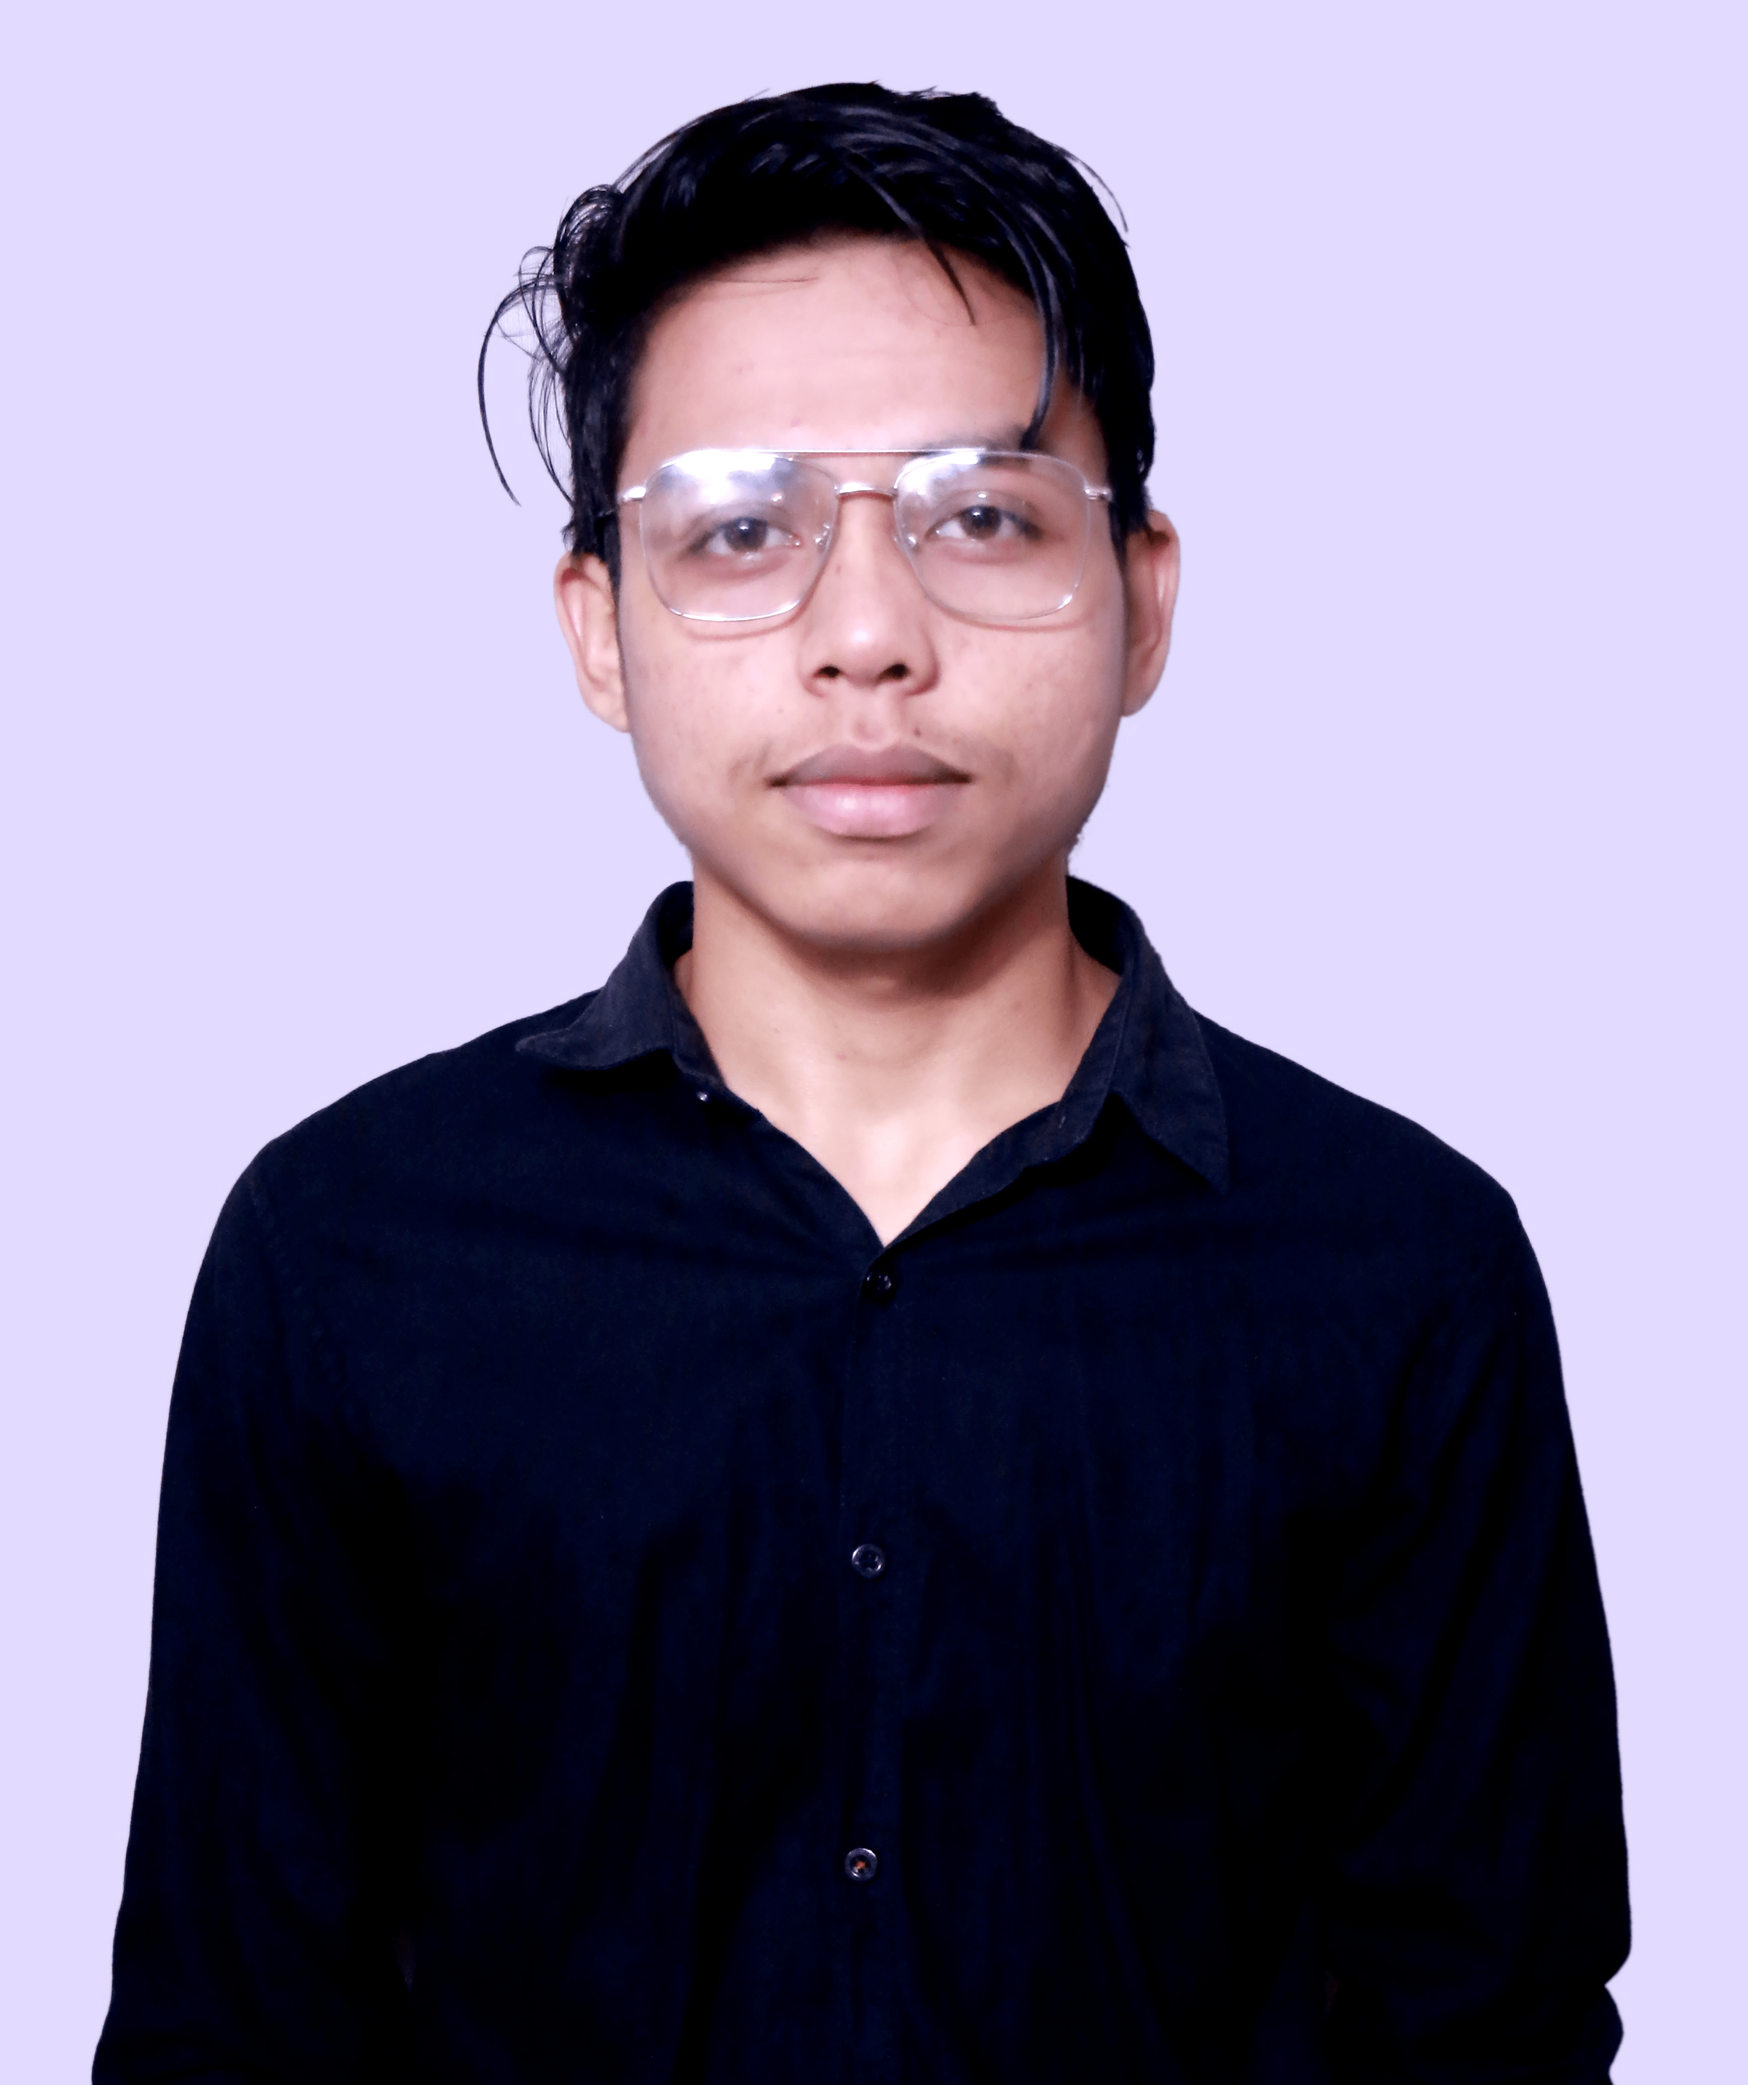
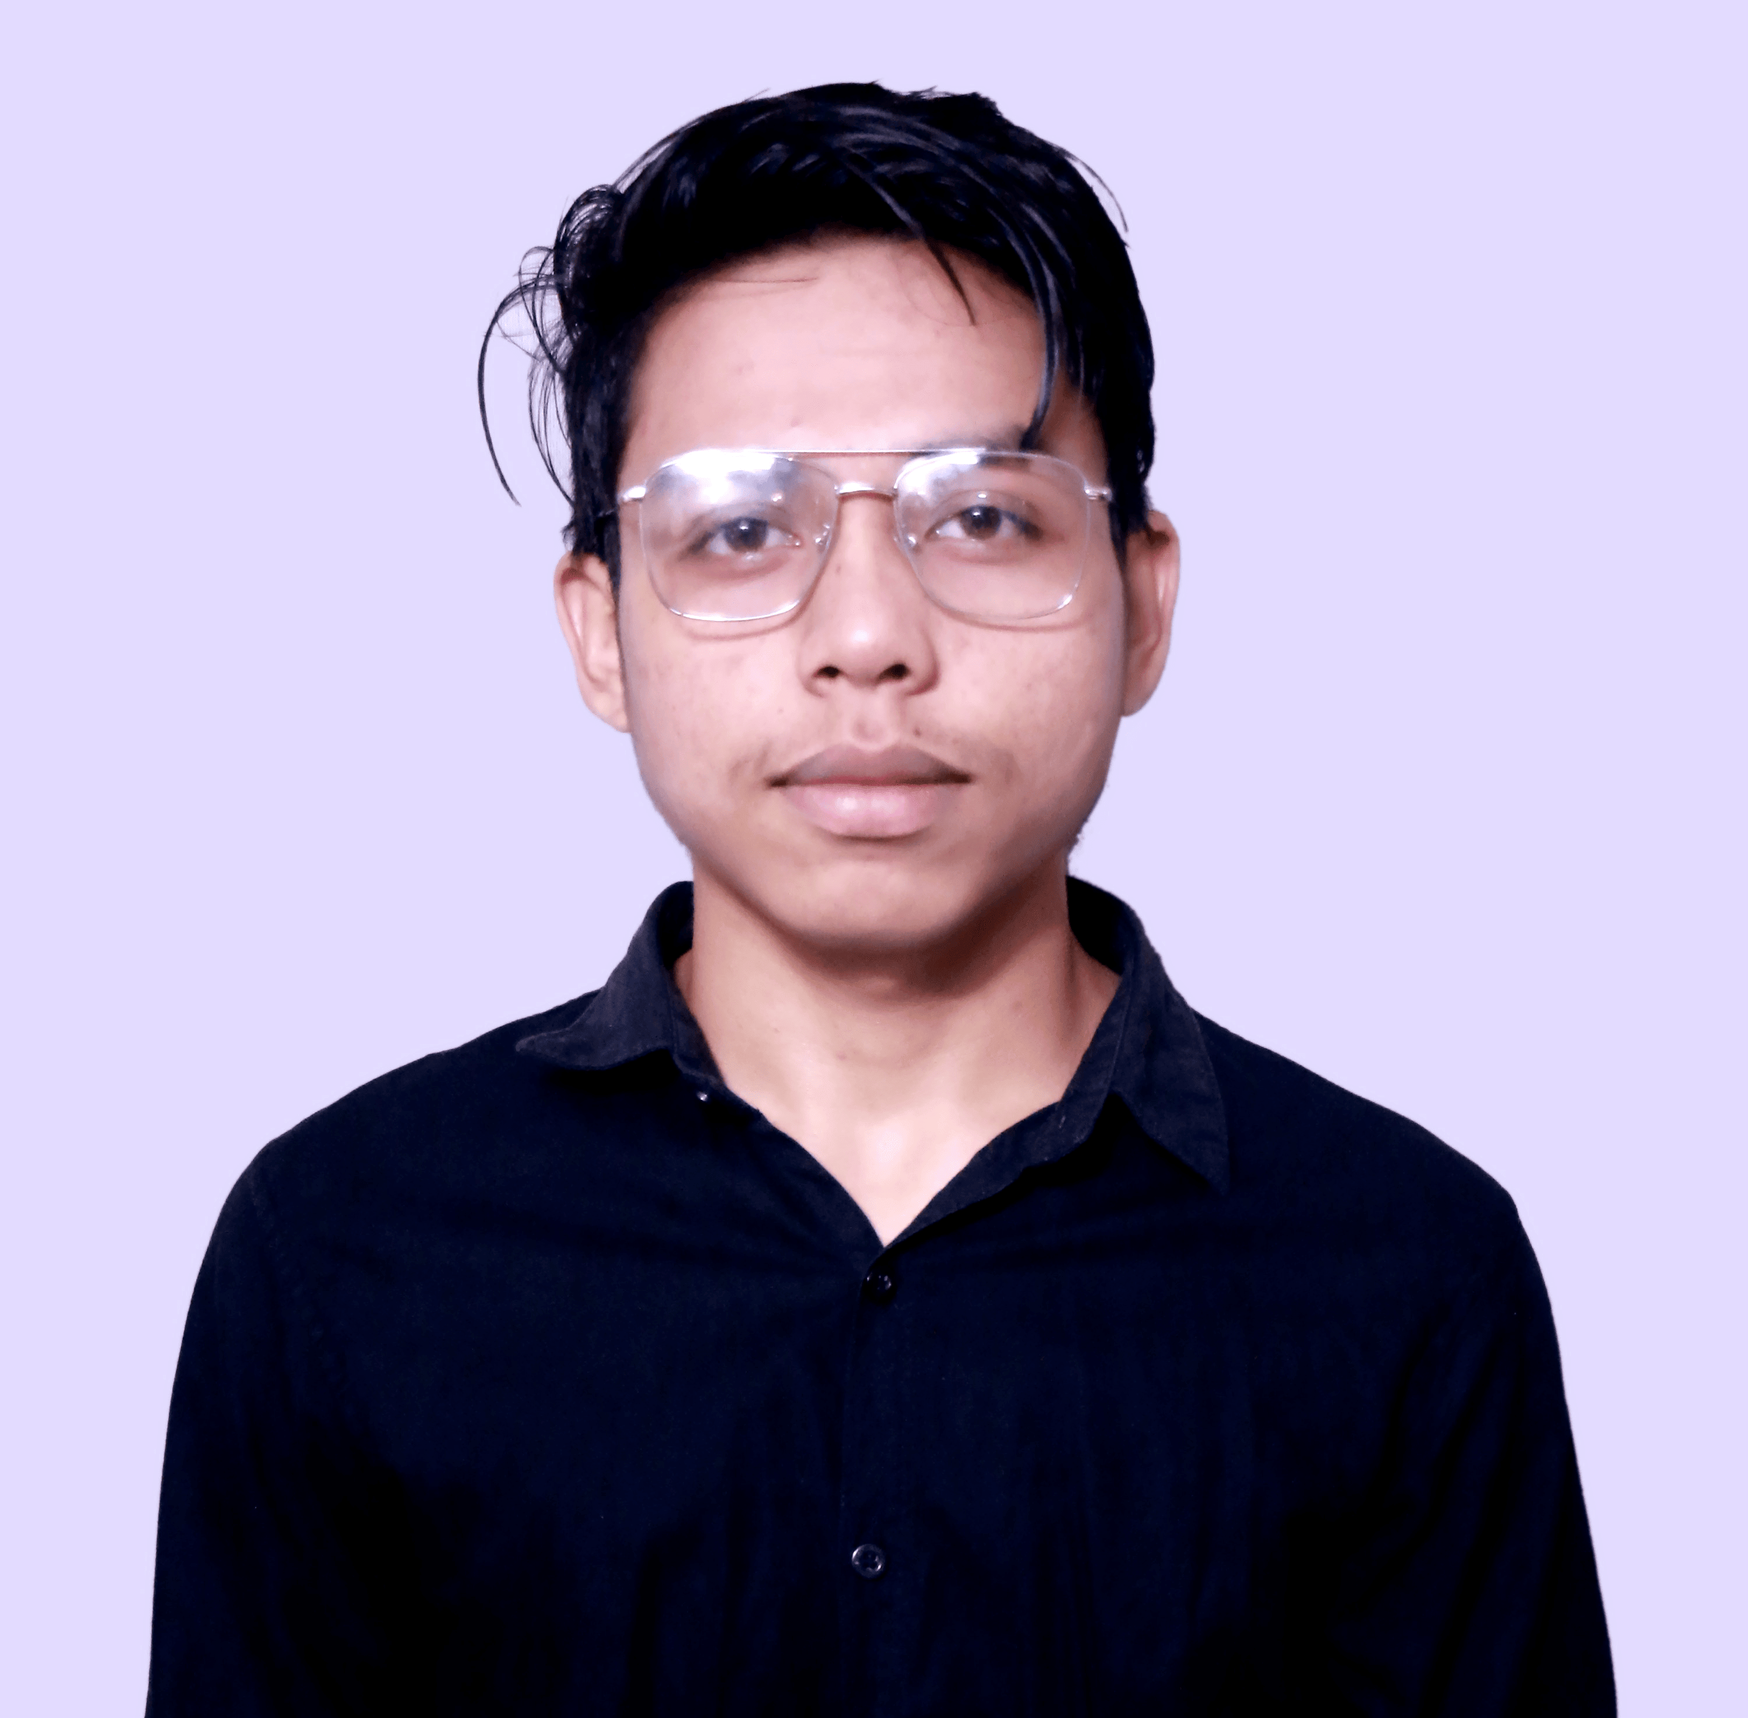
removing bugs

diff --git a/src/Component/Home/Home.jsx b/src/Component/Home/Home.jsx
@@ -79,7 +79,7 @@ export const Home = () => {
         <div className={styles.home_box_img} data-aos="fade-left">
           <Image
             src={img}
-            width={"70%"}
+            width={"80%"}
             borderRadius="40px"
             padding="15px"
             margin={"auto"}

diff --git a/src/Component/Home/Home.module.css b/src/Component/Home/Home.module.css
@@ -12,6 +12,7 @@
 }
 .home_box_details {
   display: flex;
+  margin-top: 70px;
   flex-direction: column;
   justify-content: center;
 }
